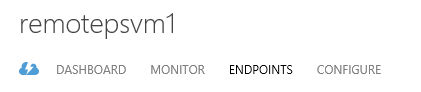
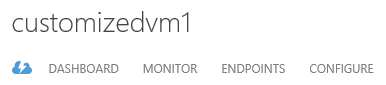
Updated screenshots. Minor naming updates.

diff --git a/HOL.md b/HOL.md
@@ -120,7 +120,7 @@ In this step we will run sysprep to generalize the image. It will allow multiple
 
 In this exercise you are going to use the capture feature of Windows Azure IaaS to create a new image based off of an existing virtual machine (the previously created one).
 
->**Note:** Before proceeding, ensure the **imgtest1** Virtual Machine is off. Wait until the sysprep finishes and turns off the Virtual Machine
+>**Note:** Before proceeding, ensure the **DC01** Virtual Machine is off. Wait until the sysprep finishes and turns off the Virtual Machine
 
 <a name="Ex3Task1" />
 #### Task 1: Saving an Image in the Image Library ####
@@ -170,7 +170,7 @@ In this exercise you are going to create a new virtual machine using the image y
 
 	_Virtual Machine operating system selection_
 
-1. Set the **Virtual Machine Name** to _remotepsvm1_ and complete the administrator username and password.
+1. Set the **Virtual Machine Name** to _customizedvm1_ and complete the administrator username and password.
 
 	![myimagetab](Images/virtualmachinename.png?raw=true)
 
@@ -191,7 +191,7 @@ In this exercise you are going to create a new virtual machine using the image y
 
 1. Open the Windows Azure Portal from https://manage.windowsazure.com and click **Virtual Machines**.
 
-2. Click on the **remotepsvm1** Virtual Machine to open its **Dashboard** and then click **Endpoints**.
+2. Click on the **customizedvm1** Virtual Machine to open its **Dashboard** and then click **Endpoints**.
 
 	![Virtual Machine Endpoints](Images/virtual-machine-endpoints.png?raw=true "Virtual Machine Endpoints")
 
